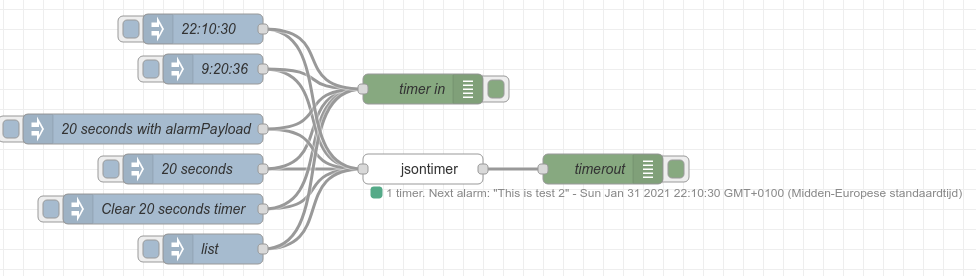
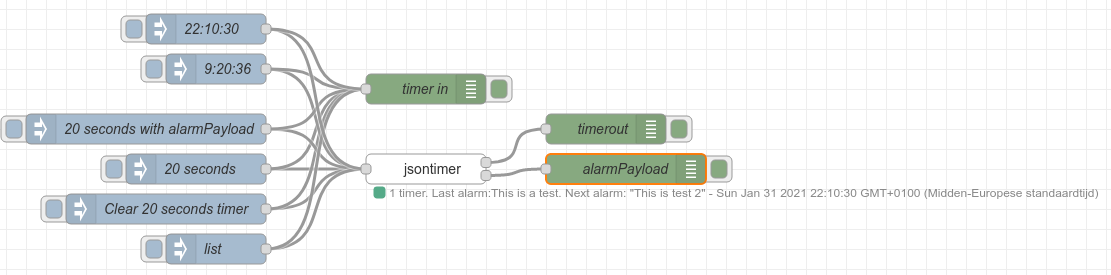
Moved alarmPayload to it's own output

Changed region(s): [[0.0, 0.0291, 1.0, 0.9891]]

diff --git a/jsontimer.js b/jsontimer.js
@@ -66,12 +66,12 @@ module.exports = function (RED) {
 
         this.alarm = function(timerId, alarmPayload) {
             if (node.timers[timerId]) {
-                let msg = {
+                let msg = [{
                     topic:"alarm",
                     id: timerId
-                }
+                }];
                 if (alarmPayload !== undefined) {
-                    msg.alarmPayload = alarmPayload;
+                    msg.push(alarmPayload);
                 }
                 node.send(msg)
                 node.clearTimer(timerId);
@@ -85,10 +85,10 @@ module.exports = function (RED) {
                 clearTimeout(node.timers[timerId].timeoutHandle);
                 delete node.timers[timerId]
                 if (send) {
-                    send({
+                    send([{
                         topic: "clearedtimer",
                         id: timerId
-                    })
+                    }])
                 }
                 node.updateStatus();
                 if (doSave) {
@@ -108,10 +108,10 @@ module.exports = function (RED) {
         this.setTimer = function(payload, send) {
             if (!payload["id"]) {
                 if (send) {
-                    send({
+                    send([{
                         topic:"error",
                         error:"id missing"
-                    })
+                    }])
                 }
                 return;
             }
@@ -207,18 +207,18 @@ module.exports = function (RED) {
                     if (payload.hasOwnProperty("alarmPayload") && payload.alarmPayload !== undefined) {
                         msg.alarmPayload = payload.alarmPayload;
                     }
-                    send(msg)
+                    send([msg])
                 }
                 node.updateStatus();
                 node.saveTimers();
             }
             else {
                 if (send) {
-                    send({
+                    send([{
                         topic: "error",
                         id: payload.id,
                         error: errorStr ? errorStr : "No time or timeout specified"
-                    })
+                    }])
                 }
             }
         }
@@ -307,10 +307,10 @@ module.exports = function (RED) {
                 }
                 case "list": {
                     if (send) {
-                        send({
+                        send([{
                             topic: "list",
                             timers: node.timersArray()
-                        });
+                        }]);
                     }
                 }
             }

diff --git a/jsontimer.html b/jsontimer.html
@@ -49,7 +49,8 @@
             name: {value: ""}
         },
         inputs: 1,
-        outputs: 1,
+        outputs: 2,
+        outputLabels: ["events","alarmPayload"],
         label: function () {
             return (this.groupaddr || this.name || "jsontimer");
         }

diff --git a/README.md b/README.md
@@ -33,5 +33,5 @@ Topic property will contain one of following values:
 
 Example flow:
 ```json
-[{"id":"ec99b4da.293d4","type":"tab","label":"jsontimer example","disabled":false,"info":""},{"id":"7279d624.7be1e","type":"jsontimer","z":"ec99b4da.293d4","name":"","x":440,"y":200,"wires":[["f7b7a7a8.610e08"]]},{"id":"f7b7a7a8.610e08","type":"debug","z":"ec99b4da.293d4","name":"timerout","active":true,"tosidebar":true,"console":false,"tostatus":false,"complete":"true","targetType":"full","statusVal":"","statusType":"auto","x":620,"y":200,"wires":[]},{"id":"781c568e.7274d","type":"inject","z":"ec99b4da.293d4","name":"20 seconds","props":[{"p":"payload"},{"p":"topic","vt":"str"}],"repeat":"","crontab":"","once":false,"onceDelay":0.1,"topic":"set","payload":"{\"id\":\"This is a test\",\"timeout\":20000}","payloadType":"json","x":210,"y":200,"wires":[["7279d624.7be1e","af6927b1.cf26b"]]},{"id":"af6927b1.cf26b","type":"debug","z":"ec99b4da.293d4","name":"timer in","active":true,"tosidebar":true,"console":false,"tostatus":false,"complete":"true","targetType":"full","statusVal":"","statusType":"auto","x":440,"y":120,"wires":[]},{"id":"65d3a29.abf2fdc","type":"inject","z":"ec99b4da.293d4","name":"Clear 20 seconds timer","props":[{"p":"payload"},{"p":"topic","vt":"str"}],"repeat":"","crontab":"","once":false,"onceDelay":0.1,"topic":"clear","payload":"{\"id\":\"This is a test\"}","payloadType":"json","x":180,"y":240,"wires":[["7279d624.7be1e","af6927b1.cf26b"]]},{"id":"dd59dba0.990e4","type":"inject","z":"ec99b4da.293d4","name":"9:20:36","props":[{"p":"payload"},{"p":"topic","vt":"str"}],"repeat":"","crontab":"","once":false,"onceDelay":0.1,"topic":"set","payload":"{\"id\":\"This is a test\",\"time\":{\"hours\":9,\"minutes\":20,\"seconds\":36}}","payloadType":"json","x":230,"y":100,"wires":[["7279d624.7be1e","af6927b1.cf26b"]]},{"id":"c4ca6c73.9a36a","type":"inject","z":"ec99b4da.293d4","name":"20 seconds with alarmPayload","props":[{"p":"payload"},{"p":"topic","vt":"str"}],"repeat":"","crontab":"","once":false,"onceDelay":0.1,"topic":"set","payload":"{\"id\":\"This is a test\",\"timeout\":20000,\"alarmPayload\":{\"test\":\"This is a test\"}}","payloadType":"json","x":160,"y":160,"wires":[["7279d624.7be1e","af6927b1.cf26b"]]},{"id":"de1f5c99.ee56e8","type":"inject","z":"ec99b4da.293d4","name":"list","props":[{"p":"topic","vt":"str"}],"repeat":"","crontab":"","once":false,"onceDelay":0.1,"topic":"list","x":230,"y":280,"wires":[["7279d624.7be1e","af6927b1.cf26b"]]},{"id":"237f8783.835e5","type":"inject","z":"ec99b4da.293d4","name":"22:10:30","props":[{"p":"payload"},{"p":"topic","vt":"str"}],"repeat":"","crontab":"","once":false,"onceDelay":0.1,"topic":"set","payload":"{\"id\":\"This is test 2\",\"time\":{\"hours\":22,\"minutes\":10,\"seconds\":30}}","payloadType":"json","x":220,"y":60,"wires":[["7279d624.7be1e","af6927b1.cf26b"]]}]
+[{"id":"ec99b4da.293d4","type":"tab","label":"jsontimer example","disabled":false,"info":""},{"id":"7279d624.7be1e","type":"jsontimer","z":"ec99b4da.293d4","name":"","x":440,"y":200,"wires":[["f7b7a7a8.610e08"],["abb7e0fe.204fe8"]]},{"id":"f7b7a7a8.610e08","type":"debug","z":"ec99b4da.293d4","name":"timerout","active":true,"tosidebar":true,"console":false,"tostatus":false,"complete":"true","targetType":"full","statusVal":"","statusType":"auto","x":620,"y":160,"wires":[]},{"id":"781c568e.7274d","type":"inject","z":"ec99b4da.293d4","name":"20 seconds","props":[{"p":"payload"},{"p":"topic","vt":"str"}],"repeat":"","crontab":"","once":false,"onceDelay":0.1,"topic":"set","payload":"{\"id\":\"This is a test\",\"timeout\":20000}","payloadType":"json","x":210,"y":200,"wires":[["7279d624.7be1e","af6927b1.cf26b"]]},{"id":"af6927b1.cf26b","type":"debug","z":"ec99b4da.293d4","name":"timer in","active":true,"tosidebar":true,"console":false,"tostatus":false,"complete":"true","targetType":"full","statusVal":"","statusType":"auto","x":440,"y":120,"wires":[]},{"id":"65d3a29.abf2fdc","type":"inject","z":"ec99b4da.293d4","name":"Clear 20 seconds timer","props":[{"p":"payload"},{"p":"topic","vt":"str"}],"repeat":"","crontab":"","once":false,"onceDelay":0.1,"topic":"clear","payload":"{\"id\":\"This is a test\"}","payloadType":"json","x":180,"y":240,"wires":[["7279d624.7be1e","af6927b1.cf26b"]]},{"id":"dd59dba0.990e4","type":"inject","z":"ec99b4da.293d4","name":"9:20:36","props":[{"p":"payload"},{"p":"topic","vt":"str"}],"repeat":"","crontab":"","once":false,"onceDelay":0.1,"topic":"set","payload":"{\"id\":\"This is a test\",\"time\":{\"hours\":9,\"minutes\":20,\"seconds\":36}}","payloadType":"json","x":230,"y":100,"wires":[["7279d624.7be1e","af6927b1.cf26b"]]},{"id":"c4ca6c73.9a36a","type":"inject","z":"ec99b4da.293d4","name":"20 seconds with alarmPayload","props":[{"p":"payload"},{"p":"topic","vt":"str"}],"repeat":"","crontab":"","once":false,"onceDelay":0.1,"topic":"set","payload":"{\"id\":\"This is a test\",\"timeout\":20000,\"alarmPayload\":{\"test\":\"This is a test\"}}","payloadType":"json","x":160,"y":160,"wires":[["7279d624.7be1e","af6927b1.cf26b"]]},{"id":"de1f5c99.ee56e8","type":"inject","z":"ec99b4da.293d4","name":"list","props":[{"p":"topic","vt":"str"}],"repeat":"","crontab":"","once":false,"onceDelay":0.1,"topic":"list","x":230,"y":280,"wires":[["7279d624.7be1e","af6927b1.cf26b"]]},{"id":"237f8783.835e5","type":"inject","z":"ec99b4da.293d4","name":"22:10:30","props":[{"p":"payload"},{"p":"topic","vt":"str"}],"repeat":"","crontab":"","once":false,"onceDelay":0.1,"topic":"set","payload":"{\"id\":\"This is test 2\",\"time\":{\"hours\":22,\"minutes\":10,\"seconds\":30}}","payloadType":"json","x":220,"y":60,"wires":[["7279d624.7be1e","af6927b1.cf26b"]]},{"id":"abb7e0fe.204fe8","type":"debug","z":"ec99b4da.293d4","name":"alarmPayload","active":true,"tosidebar":true,"console":false,"tostatus":false,"complete":"true","targetType":"full","statusVal":"","statusType":"auto","x":640,"y":200,"wires":[]}]
 ```
